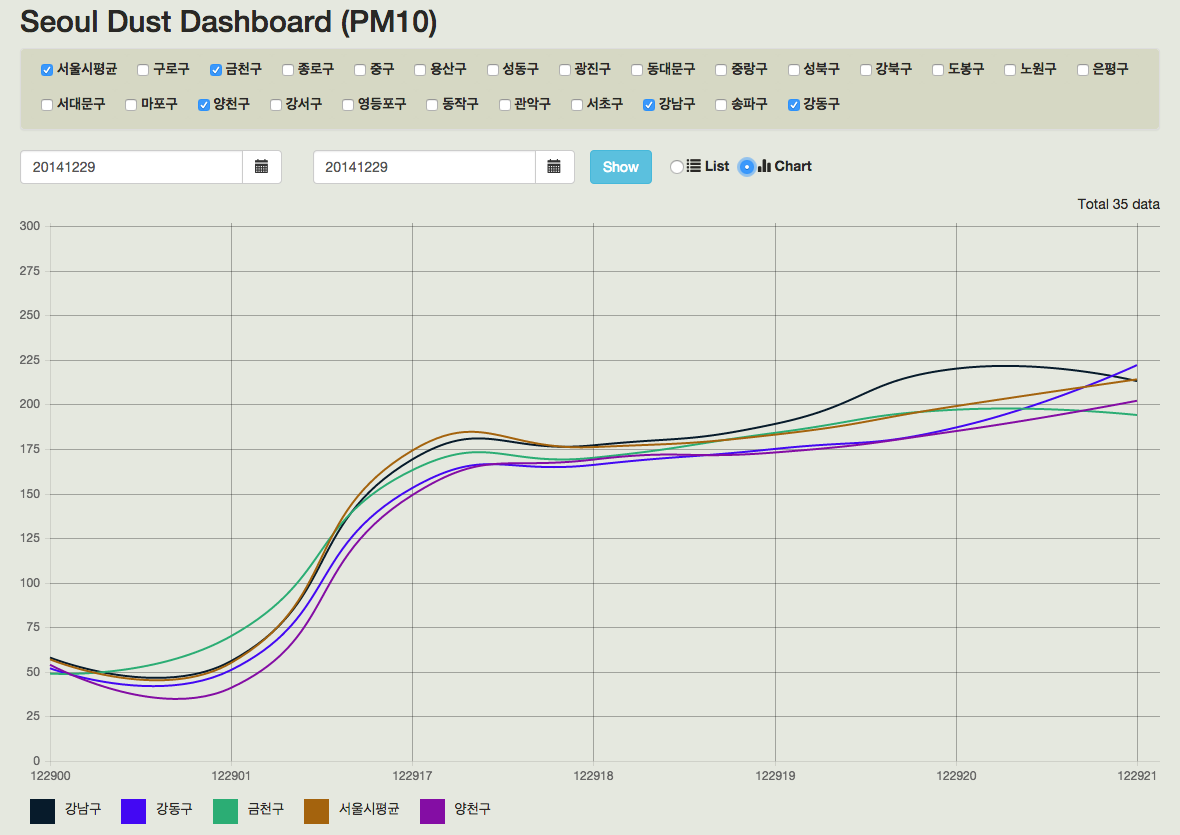
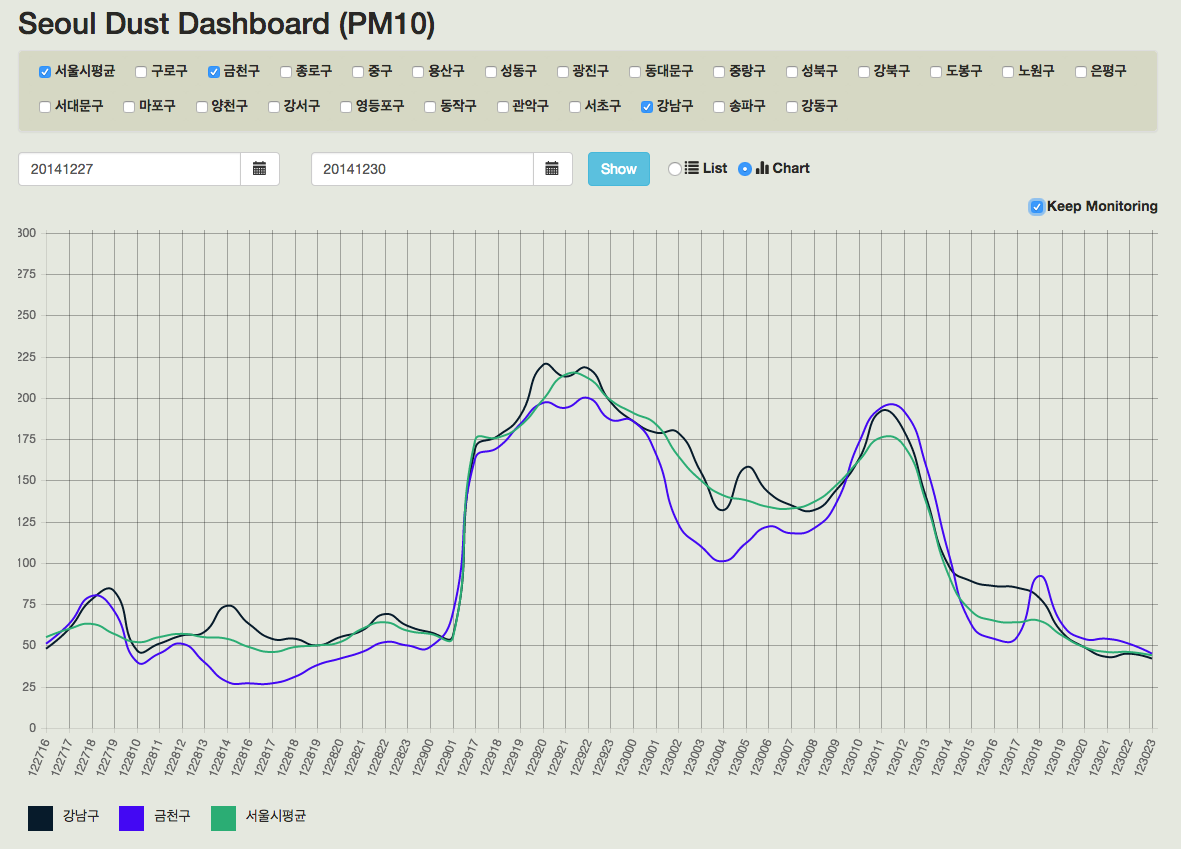
refresh add

diff --git a/public/main.js b/public/main.js
@@ -147,15 +147,53 @@ angular.module('dashBoardMain', [])
                 startingDay: 1
             };
 
+
+
+            $scope.keep_monitoring = false;
+            var timerId = -1;
+            var refreshPeriod = 1000*60*1; //1 min
+
             //------------------------------------------
             $scope.displayFormatChanged = function(value) {
 
                 if(value === "format_chart") {
+
+                    if($scope.keep_monitoring){
+                        timerId = setInterval(function() {
+                            //console.log("refresh!!");
+                            $scope.showData();
+                        }, refreshPeriod );
+                    }
                     $location.path( '/dustChart' );
+
                 } else if(value === "format_table") {
+                    if(timerId>0){
+                        clearInterval(timerId);
+                        timerId = -1;
+                        $scope.keep_monitoring = false;
+                        //console.log("refresh timer cancelled !!");
+                    }
                     $location.path( '/dustDataTable' );
                 }
             };
+
+            //------------------------------------------
+            $scope.keepMonitoringCheckBoxChanged = function() {
+                //console.log("keepMonitoringCheckBoxChanged ->",$scope.keep_monitoring);
+
+                if( $scope.keep_monitoring){
+                    timerId = setInterval(function() {
+                        $scope.showData();
+                    }, refreshPeriod );
+                }else{
+                    if(timerId>0){
+                        clearInterval(timerId);
+                        timerId = -1;
+                        $scope.keep_monitoring = false;
+                    }
+                }
+            };
+
 
             $scope.setToday();
             $scope.showData(); //!!!!!!!!

diff --git a/public/main.html b/public/main.html
@@ -5,17 +5,6 @@
     <meta charset="utf-8">
     <title>seoul dust dashboard app</title>
 
-    <!--
-    <script src="angular/angular.js"></script>
-    <script src="bower_components/angular-route/angular-route.js"></script>
-    <script src="bower_components/angular-bootstrap/ui-bootstrap-tpls.js"></script>
-    <script src="bower_components/jquery/dist/jquery.min.js"></script>
-    <link rel="stylesheet" href="bower_components/bootstrap/dist/css/bootstrap.min.css">
-    <script src="bower_components/bootstrap/dist/js/bootstrap.min.js"></script>
-    <script src="bower_components/Chart.js/Chart.js"></script>
-    <script src="bower_components/tc-angular-chartjs/dist/tc-angular-chartjs.min.js"></script>
-    -->
-
 
     <script src="angular/angular.js"></script>
     <script src="angular-route/angular-route.js"></script>
@@ -98,10 +87,18 @@
             <label> <input type="radio" ng-model="view_format" value="format_table" ng-change='displayFormatChanged(view_format)'> <span class="glyphicon glyphicon-list" ></span> List  </label> &nbsp;
             <label> <input type="radio" ng-model="view_format" value="format_chart" ng-change='displayFormatChanged(view_format)'> <span class="glyphicon glyphicon-stats"></span> Chart  </label>
 
-
         </div>  <!-- row -->
 
-        <div style="text-align :right">Total {{ totalDataCount }} data</div>
+        <div style="text-align :right">
+            <div ng-show="view_format=='format_chart'">
+                <label><input type="checkbox" ng-model="keep_monitoring" ng-click="keepMonitoringCheckBoxChanged()"/> Keep Monitoring</label>
+            </div>
+
+            <div ng-show="view_format!='format_chart'">
+                Total {{ totalDataCount }} data
+            </div>
+        </div>
+
     </div> <!-- main controller -->
 
     <div ng-view ></div>
